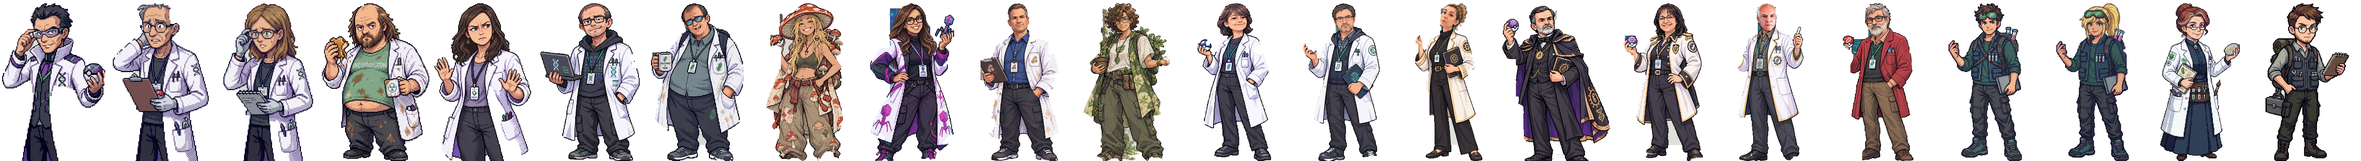
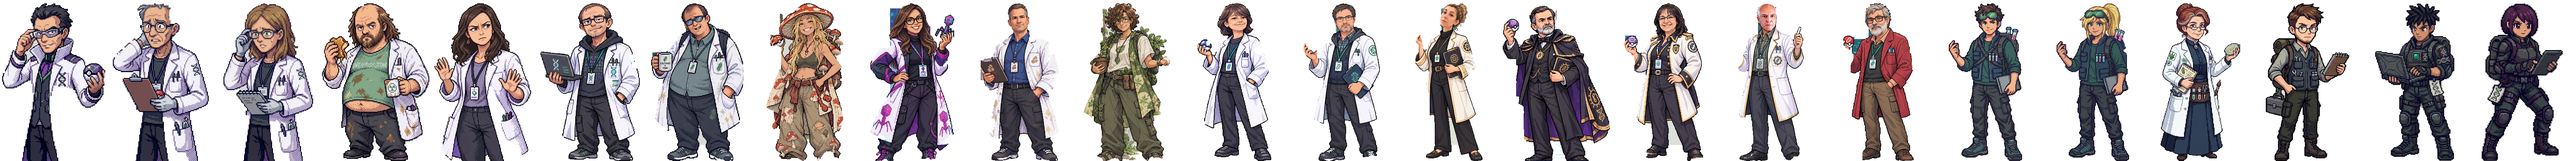
Retratos de combate del usuario para los reclutas de la Unidad
Claude-Session: https://claude.ai/code/session_018v1fAZrQHSEnPWssP3zxe4

diff --git a/tools/art/char_atlas.py b/tools/art/char_atlas.py
@@ -104,8 +104,10 @@ def main():
         A.alpha_composite(sheet, (0, i * 128 * K))
     A.save(out / "personajes_hd.png", optimize=True)
     hdp = [cid for cid, pre in REFS.items() if (CHD / f"{pre}_combate.png").exists()]
+    # retratos de combate de PNJ genéricos dibujados por el usuario
+    hdp += [n for n in npc if (CHD / f"{n}_combate.png").exists() and n not in hdp]
     R = Image.new("RGBA", (64 * K * len(hdp), 96 * K))
-    for i, cid in enumerate(hdp): R.alpha_composite(Image.open(CHD / f"{REFS[cid]}_combate.png").convert("RGBA"), (i * 64 * K, 0))
+    for i, cid in enumerate(hdp): R.alpha_composite(Image.open(CHD / f"{REFS.get(cid, cid)}_combate.png").convert("RGBA"), (i * 64 * K, 0))
     R.save(out / "retratos_hd.png", optimize=True)
     json.dump({"sheets": idx, "portraits": {c: i for i, c in enumerate(ports)}, "hdScale": K,
                "hd": {c: i for i, c in enumerate(hd)}, "hdPortraits": {c: i for i, c in enumerate(hdp)}}, open(out / "personajes.json", "w"))

diff --git a/PROGRESO.md b/PROGRESO.md
@@ -132,7 +132,7 @@ Roadmap: 7 fases (0–6). Cada fase termina en una puerta.
 - Información de movimientos (`scenes/movinfo.ts`): descripción completa generada de la mecánica (categoría, potencia, precisión, PP, prioridad, efectos, probabilidades, objetivo y nota del GDD) e icono de categoría (físico, especial, estado). Al olvidar un movimiento (subida de nivel o plásmido) se ven los cuatro y el nuevo con la ficha del seleccionado. En combate, START muestra la ficha del ataque sin usarlo. En el resumen, A en MOVIMIENTOS abre las fichas (▲▼ entre ellas).
 - Menú de ataques en combate: 4 celdas coloreadas por tipo con icono de categoría; a la derecha, PP, tipo, categoría y potencia del seleccionado.
 - ▲▼ cambia de Microo en el resumen del equipo y de especie (vistas) en la ficha de la Microdex.
-- PNJ genéricos con hojas del usuario (`assets/reference/npcs/`, 12 fotogramas propios): becario, recluta, recluta-b, enfermera (microbióloga), chica y chico. `tools/art/npc_sheets.py` quita el fondo verde y las sombras y los encaja en celdas HD de 128×128 con escala común; `char_atlas.py` los añade al atlas HD. Los entrenadores sin retrato usan su fotograma de frente HD en combate.
+- PNJ genéricos con hojas del usuario (`assets/reference/npcs/`, 12 fotogramas propios): becario, recluta, recluta-b, enfermera (microbióloga), chica y chico. `tools/art/npc_sheets.py` quita el fondo verde y las sombras y los encaja en celdas HD de 128×128 con escala común; `char_atlas.py` los añade al atlas HD. Los entrenadores sin retrato usan su fotograma de frente HD en combate. Los reclutas (chico y chica) tienen retrato de combate propio del usuario (`reclutas_combate.png`).
 - Las 162 especies son obtenibles: Mirabilis (Ruta 2), Pelagibac (Ruta 3), Listeria (Ruta 8), Pyrococcus (Central Metabólica), Plasmodium y Toxoplasma (Calle Selección Natural); Salmonella legendaria en los jardines de La UAB tras ser Campeón; la Profesora regala los otros dos iniciales tras la Liga.
 
 ## Siguiente tarea
